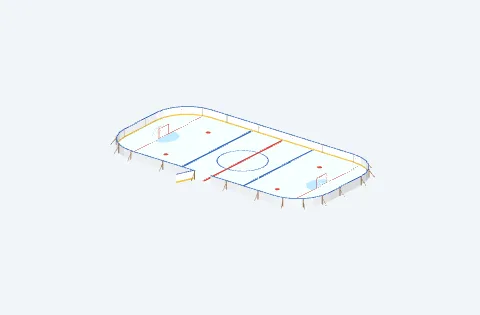
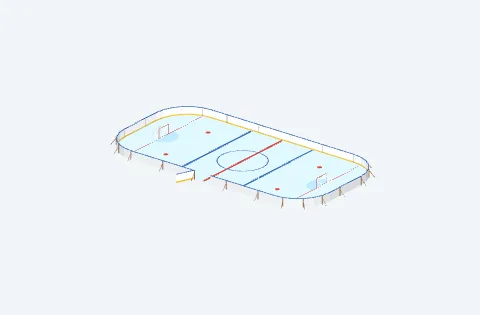
Re-tone the rink and snow windrow and record the in-app panel trial
Trying Add details in the real project page, started the way the browser
tests start it with mocked APIs, showed the rink ice and the snow windrow
reading faintly against the pale picker card. Both are a little bluer now;
their models, cards, registry rows and card locks are updated together.

The write-up now records that trial: the Winter city and Wildlife tiles
appear with their counts, every local card in those two categories and in
Planting and Trees loads from its static image, browsing them requested
no model files, search finds the seasonal forms, and choosing an item arms
placement. Placing on the map still needs a real map key. Review sheets
and composed scenes are regenerated with the updated models.

Claude-Session: https://claude.ai/code/session_01Qre8Fgc7mAHy1S8q3QQMRz

diff --git a/tools/detail_catalogue/build_calgary_details.py b/tools/detail_catalogue/build_calgary_details.py
@@ -40,7 +40,7 @@ GENERATOR = 'CityPrompt Calgary details builder v1'
 # sRGB palette; converted to linear vertex colours by the kit.
 WHITE = '#eef0f1'
 SNOW = ['#f4f7fa', '#e9eff5', '#fbfcfd', '#dfe8f0']
-ICE = '#d9e7f1'
+ICE = '#c6dbec'
 RED = '#c23b33'
 BLUE = '#2f5fa8'
 YELLOW = '#e0b63a'
@@ -343,13 +343,14 @@ def snow_windrow(s):
 
     def tone(r, i):
         if i == 0 or i >= around - 2:
-            return s.pick(['#cfd4d6', '#bfc3c2', '#d9dde0'], .04)  # gritty base
-        return s.pick(SNOW, .02)
+            return s.pick(['#c3c9cc', '#b3b8b8', '#cdd2d6'], .04)  # gritty base
+        # ploughed snow is broken and blue in its shaded facets, which also keeps it legible on a pale card
+        return s.pick(['#f1f5f9', '#dbe5ef', '#c8d6e4', '#e6edf4', '#bccbdb'], .02)
 
     s.loft(profile, tone, cap_start=True, cap_end=True)
     for _ in range(9):
         x, y = (s.random() - .5) * length * .8, (.75 + s.random() * .45) * (1 if s.random() < .5 else -1)
-        s.rock((.25 + s.random() * .3, .2 + s.random() * .25, .12 + s.random() * .18), 4, SNOW, jitter=.02, origin=(x, y, 0), yaw=s.random() * 3)
+        s.rock((.25 + s.random() * .3, .2 + s.random() * .25, .12 + s.random() * .18), 4, ['#e6edf4', '#cfdbe8', '#f1f5f9'], jitter=.02, origin=(x, y, 0), yaw=s.random() * 3)
 
 
 def grit_box(s):

diff --git a/docs/CALGARY_DETAILS_2026-11-16.md b/docs/CALGARY_DETAILS_2026-11-16.md
@@ -165,11 +165,29 @@ through the same instancing path:
 [summer aerial](calgary-details-v1/scene-summer-aerial.jpg). The utility lines
 join across three poles placed 30 m apart. The harness was not committed.
 
-This covers catalogue, card, loading, instancing and placement maths. It does
-not cover the globe, terrain picking, the React panel in a live project, saving
-or capture.
+### The real project page, with a mocked backend
 
-Not done here: a browser trial placing these objects in a project, Undo/reload,
-deterministic capture and AI render with them, low-end device performance and
-classroom novice use. The snow windrow is white on the pale card background and
-reads faintly as a picker card.
+The project's own browser tests start the real app against mocked APIs, so the
+same setup was used for a temporary trial of **Add details** in a real project
+page (the 13 existing browser tests also pass in this sandbox):
+
+- the category screen shows the new **Winter city** and **Wildlife** tiles with
+  their item counts ([screenshot](calgary-details-v1/app-category-tiles.jpg));
+- every card in [Winter city](calgary-details-v1/app-winter-city.jpg) (9) and
+  [Wildlife](calgary-details-v1/app-wildlife.jpg) (4), and all 26 local cards in
+  Planting and 44 in Trees, loads from its static image at 480 × 315;
+- browsing those four categories requested **zero** local model files;
+- searching `winter` finds 17 items inside Trees and 27 across all categories;
+- choosing the community rink [arms placement](calgary-details-v1/app-placing.jpg).
+
+The map area itself shows "Missing VITE_GOOGLE_MAPS_API_KEY" in this setup, so
+clicking the map to place, saving, Undo/reload and capture were not exercised.
+The one logged browser error was an older item's model that is not hydrated in
+the sandbox. The trial spec was not committed.
+
+After seeing the cards at true size, the rink ice and the snow windrow were
+re-toned slightly bluer so they read against the pale card.
+
+Not done here: placing these objects on the live map with a real map key,
+Undo/reload, deterministic capture and AI render with them, low-end device
+performance and classroom novice use.
